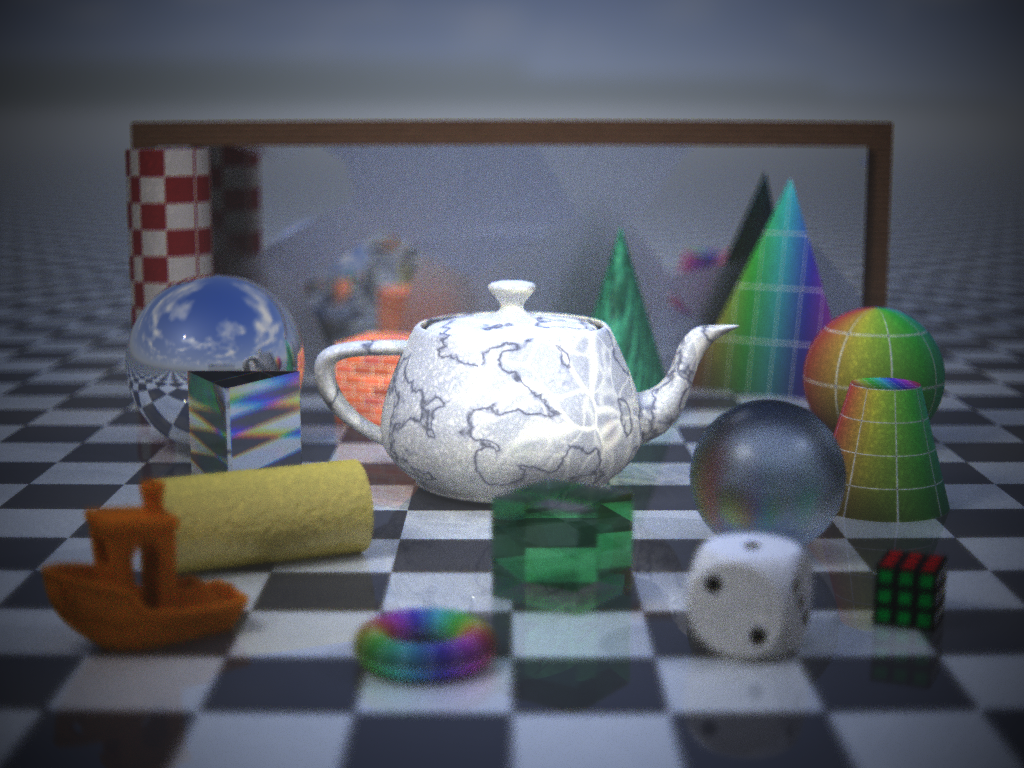
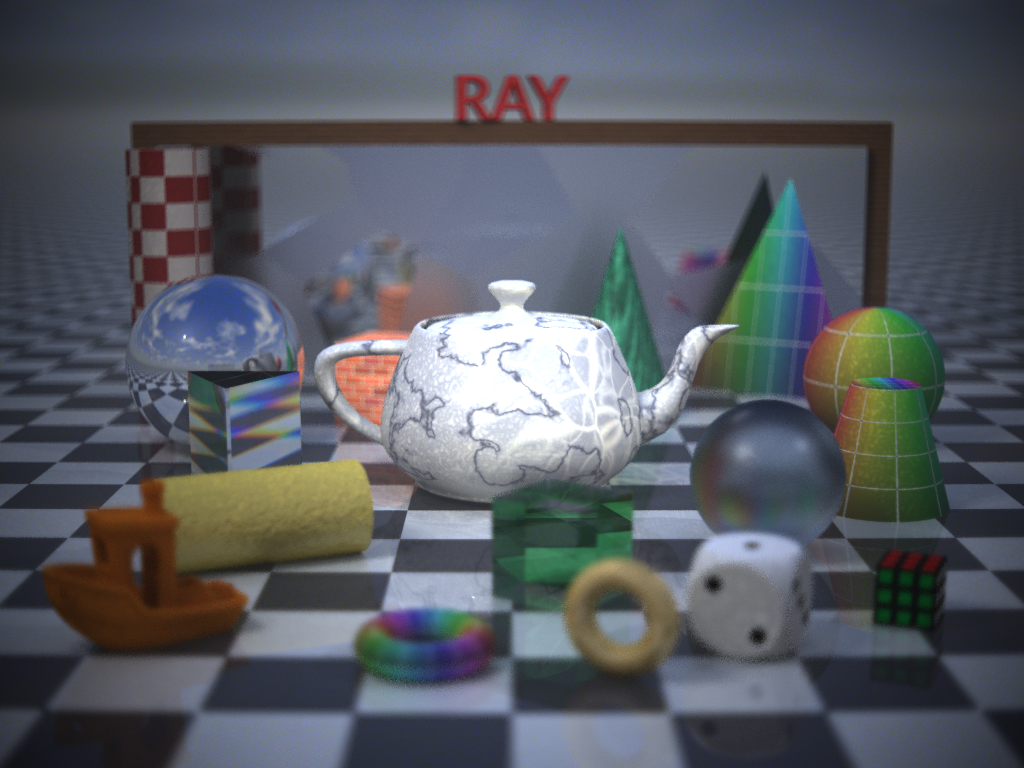
Release 2026-alpha-0.16: new primitives and text from fonts
- Seven shapes on a shared CLocalShape base: torus (quartic set up
  near the shape, roots by bisection), disc, annulus, paraboloid,
  hyperboloid, superquadric (golden-section search and bisection when
  convex, stepping when pinched) and rounded box (exact, as a grown
  box). The solids work in a csg; all show in ray-editor.
- A text object: CFontFile reads TrueType outlines, cmap, metrics and
  kern/GPOS pair kerning (CFF refused with a reason); Outline flattens,
  nests holes, bridges and ear-clips; text is extruded into a closed,
  beveled, double-sided mesh. Lato Bold (OFL) is the sample font.
- shapes_test and text_test scenes with render, round-trip and network
  tests; format_test checks for every shape, the font and the filler.
- lint_minmax test and CLAUDE.md rule against unparenthesized min/max.
- The torture test gains a gold torus and "RAY" letters; its full-size
  README image is now rendered with the adaptive sampler.

CHANGELOG.md, README.md, scenes/README.md, editor/README.md, NOTICE
and CLAUDE.md are updated.

Changed region(s): [[0.5312, 0.7188, 0.7188, 0.9375], [0.4375, 0.0938, 0.5625, 0.1562], [0.4688, 0.875, 0.5, 0.9062]]

diff --git a/README.md b/README.md
@@ -384,21 +384,30 @@ raythrower scenes/teapot.ray --aa corners --ppm teapot.ppm
 ```
 
 **Render the torture test**, every kind of object (the teapot too, in marble, and a layer-lined
-3DBenchy, a colored-STL puzzle cube and an OBJ ring), mirrors, glass
+3DBenchy, a colored-STL puzzle cube, an OBJ ring, a gold torus, and "RAY" in beveled letters set in
+Lato Bold on top of the mirror frame), mirrors, glass
 (the cube with green swirls inside, the ball frosted, the mirror frosted in patches, a flint prism fanning colors into a spectrum), a die with drilled
 pips (constructive solid geometry), textures and presets (a walnut mirror frame, a malachite cone), a brushed
 gold tube, soft shadows from a sphere light, a rectangle light, a spot light with a Fresnel beam
 that projects dappled caustics onto the teapot, and a low sun under drifting cloud shadows (its intensity a noise texture), and an
 HDR sky in the mirrors and glass that lights the scene too, light bounced between surfaces, and a
-light haze, through the double Gauss lens at 25 rays a pixel, each traced at four wavelengths
-(spectral dispersion) and clamped at 1.5, at its full 1024×768 (about four and a half minutes on an idle
-16-core machine, with a Release build):
+light haze, through the double Gauss lens, each ray traced at four wavelengths (spectral
+dispersion) and clamped at 1.5. With the scene's own 5×5 stratified sampler (25 rays a pixel), its
+full 1024×768 takes about four and a half minutes on an idle 16-core machine with a Release build:
 
 ```sh
 raythrower scenes/torture_test.ray --png torture.png --hdr torture.hdr
 ```
 
-<img src="docs/images/torture_test.png" alt="The torture test at 1024x768: a marble teapot among mirrors, glass, a flint prism, a drilled die, an orange 3DBenchy, a puzzle cube, a textured ring, textured shapes and a wood-framed mirror wall under an HDR sky in a light haze, through a real lens" width="720">
+The image below is rendered with the adaptive sampler instead (at least 25 rays a pixel, up to 256
+where they disagree), which is much cleaner and takes about seven and a half times as long (about 37 minutes on an idle
+16-core machine):
+
+```sh
+raythrower scenes/torture_test.ray --aa adaptive:min=25,max=256,threshold=0.004 --png torture.png
+```
+
+<img src="docs/images/torture_test.png" alt="The torture test at 1024x768: a marble teapot among mirrors, glass, a flint prism, a drilled die, an orange 3DBenchy, a puzzle cube, a textured ring, a gold torus, textured shapes and a wood-framed mirror wall with RAY in red letters on top under an HDR sky in a light haze, through a real lens" width="720">
 
 **Bring in a model**: name an STL or OBJ file in a mesh, and place it (here a printable model,
 which stands on z, turned to stand on y, 2 units across, on the floor):

diff --git a/CHANGELOG.md b/CHANGELOG.md
@@ -97,12 +97,17 @@ render byte for byte as before.
 - **The README's full-size torture image is rendered with the adaptive sampler** (at least 25 rays
   a pixel, up to 256 where they disagree, until the standard error is under 0.004):
   `raythrower scenes/torture_test.ray --aa adaptive:min=25,max=256,threshold=0.004 --png torture.png`.
-  TORTURE_TIME_PLACEHOLDER The `render_torture` test still uses the scene's own 5×5 stratified
+  The full-size render took 35,724 CPU-seconds (44.5 minutes on this 16-core machine while it was
+  busy with other work; about 37 minutes idle), about seven and a half times what the 5×5 stratified
+  sampler costs on the same scene (measured at 256×192: 2,398 CPU-seconds against 314). The
+  `render_torture` test still uses the scene's own 5×5 stratified
   sampler at 160×120, so the test costs what it did. `CLAUDE.md`'s torture rule gives the command.
 
   ![Before and after: the torture test at 0.15 (5×5 stratified) and at 0.16 (adaptive), with the gold torus and the RAY letters](docs/images/changelog/torture-shapes-text.png)
 
-  TORTURE_CAPTION_PLACEHOLDER
+  Above, the whole frame: the gold torus in front and the red "RAY" on the frame are new. Below, a
+  full-size crop: the frosted ball, the marble teapot, the glass cube and the floor are far smoother,
+  because the adaptive sampler spends up to 256 rays on pixels whose rays disagree.
 
 ## [2026-alpha-0.15] - 2026-11-21
 
